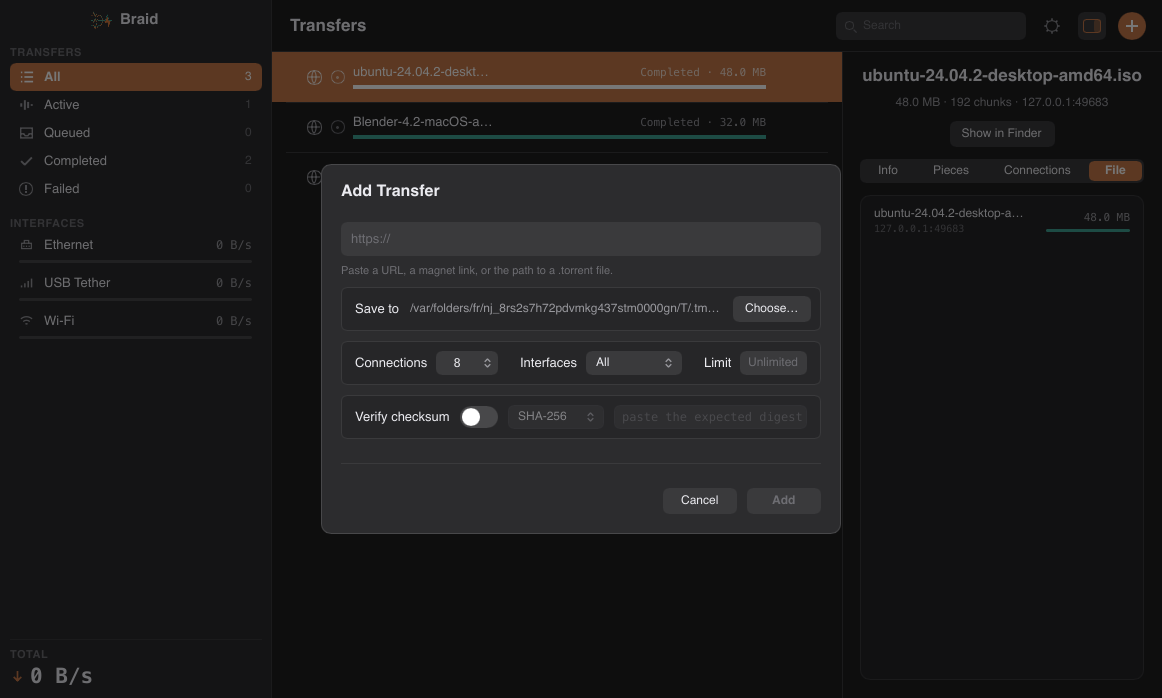
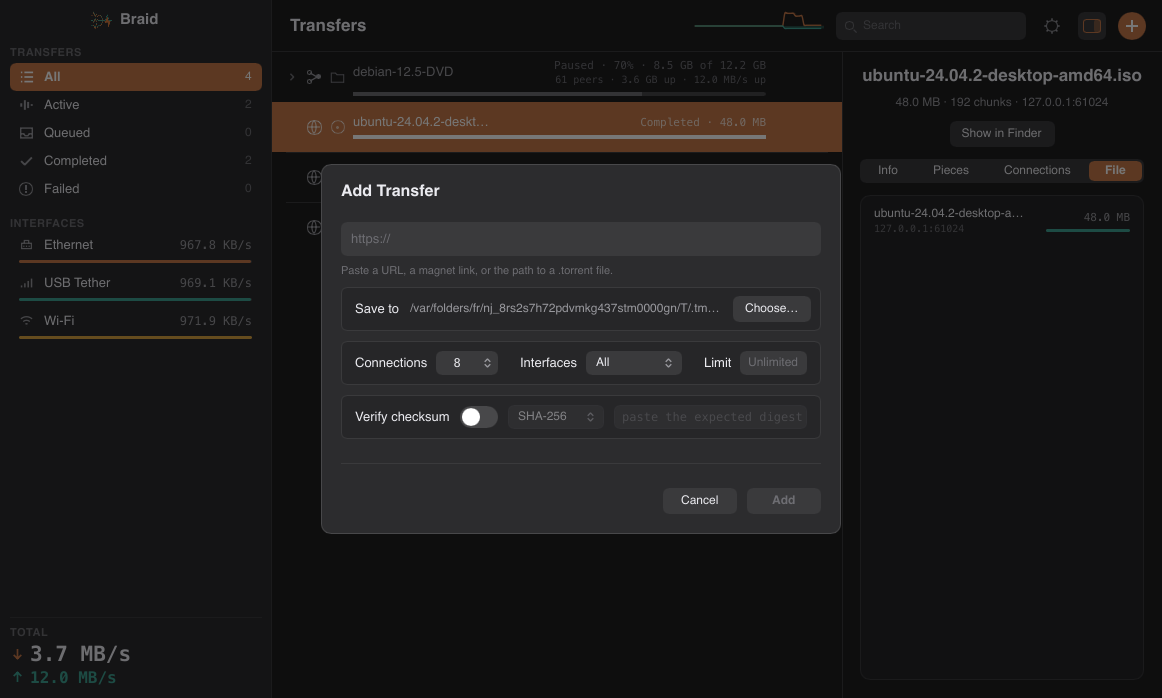
Say what is staged in the screenshots, and re-capture them

Changed region(s): [[0.2169, 0.0301, 0.7435, 0.2407], [0.031, 0.3309, 0.2169, 0.5115], [0.0, 0.9026, 0.1239, 0.9928]]

diff --git a/README.md b/README.md
@@ -24,7 +24,9 @@
 ---
 
 <p align="center">
-  <img src="assets/screenshots/transfers.png" alt="Braid on macOS" width="860">
+  <img src="assets/screenshots/transfers.png" alt="Braid on macOS" width="860"><br>
+  <sub><i>A scripted demonstration, not a live desktop.
+  <a href="#screens">What is simulated in these images</a>.</i></sub>
 </p>
 
 ## What it does
@@ -75,6 +77,27 @@ from a different one.
 ---
 
 ## Screens
+
+Every image here is the running application: the real interface, the real
+engine, real transfers with real chunking and a real journal behind them. They
+are captured from a scripted demonstration rather than from someone's desktop,
+and two things in them are staged. Both are named here rather than left for
+you to discover.
+
+**The three network interfaces are one.** The machine these were captured on
+has a single routable interface. The Wi-Fi, Ethernet and USB Tether in the
+sidebar are three connections over loopback wearing those labels, so that the
+part of the interface built to display aggregation has something to display.
+The mechanism is real and tested; the three separate paths in the picture are
+not.
+
+**The torrent's swarm is simulated.** Its peer count, throughput and file list
+come from a stand-in backend rather than from a real swarm.
+
+Everything else is what it appears to be. The transfers are genuine downloads
+performed by the engine against a local test server, which is why the inspector
+reports `127.0.0.1`, and the piece grid is the journal's own bitmap rather than
+a drawing of one.
 
 <table>
 <tr>
